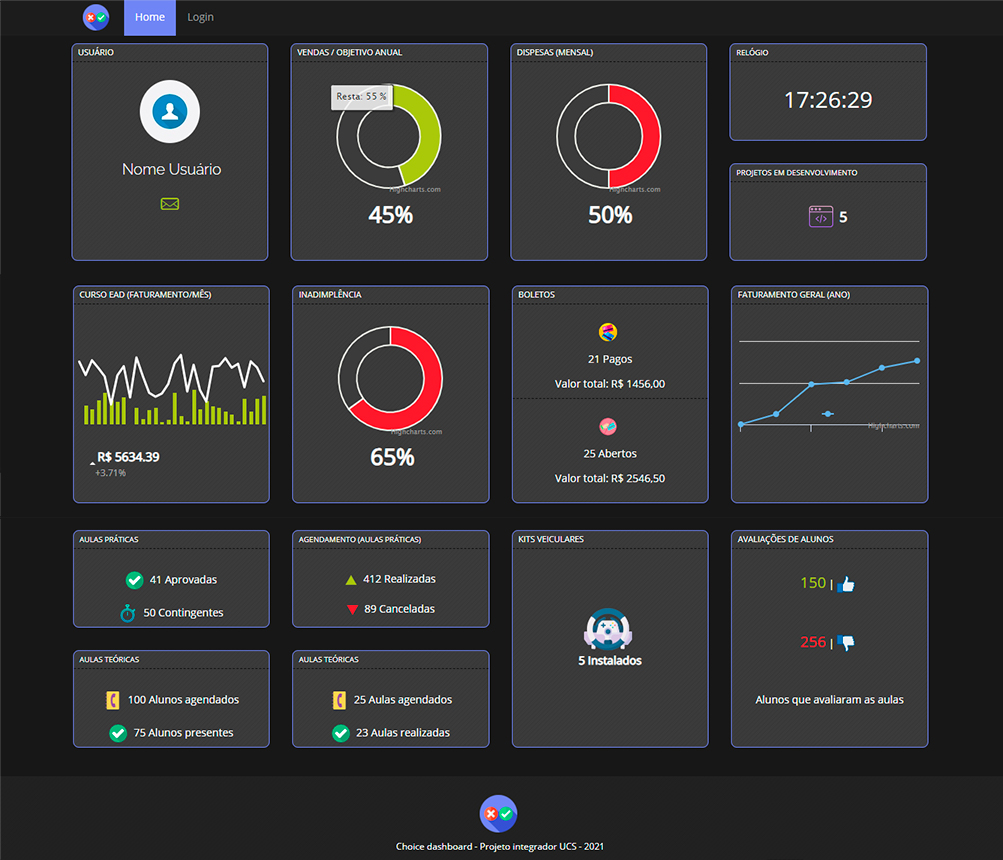
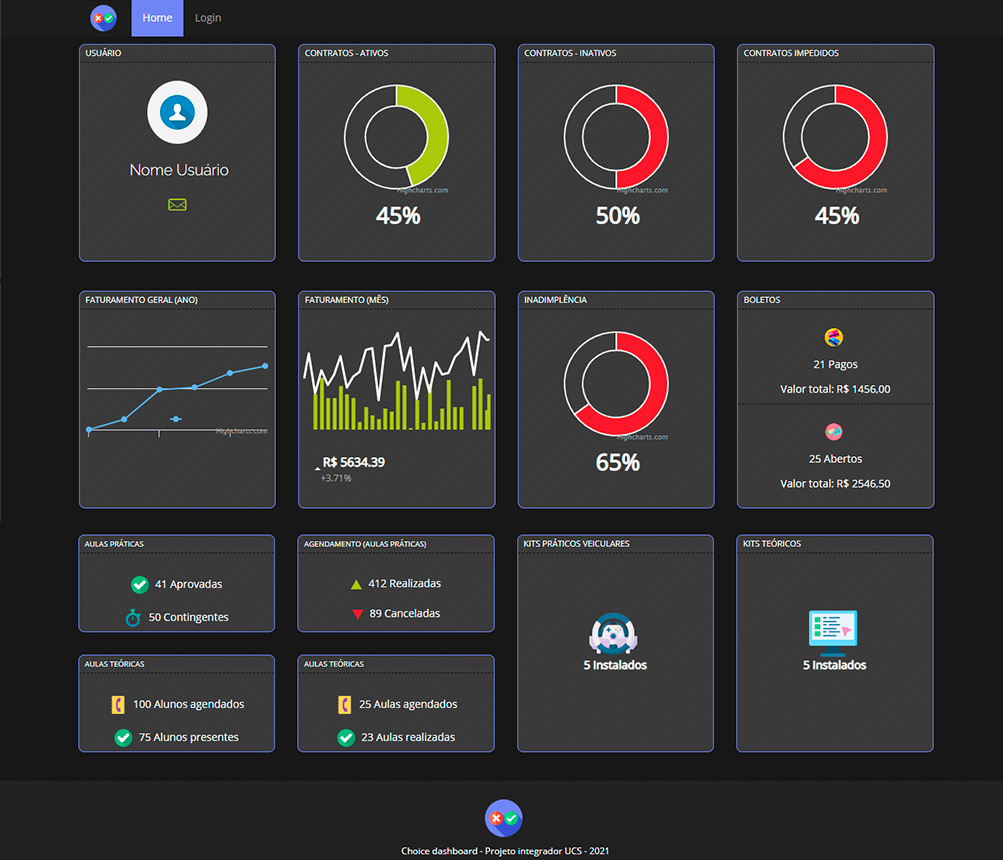
ULTIMA ATUALIZAÇÃO
consertado ordem dos cards e conteudos

diff --git a/index.html b/index.html
@@ -94,19 +94,19 @@
             <!-- CAIXA SITE -->
             <div class="col-sm-3 col-lg-3">
                 <div class="dash-unit">
-                    <dtitle>vendas / objetivo anual</dtitle>
+                    <dtitle>contratos - Ativos</dtitle>
                     <hr>
-                    <div id="load"></div>
+                    <div id="ativos"></div>
                     <h2 id="numero-site">45%</h2>
                 </div>
             </div>
 
-            <!-- CAIXA DISK -->
+            <!-- CAIXA Contratos - cancelados -->
             <div class="col-sm-3 col-lg-3">
                 <div class="dash-unit">
-                    <dtitle>Dispesas (mensal)</dtitle>
+                    <dtitle>Contratos - inativos</dtitle>
                     <hr>
-                    <div id="space"></div>
+                    <div id="inativos"></div>
                     <h2>50%</h2>
                 </div>
             </div>
@@ -114,26 +114,12 @@
             <div class="col-sm-3 col-lg-3">
 
                 <!-- CAIXA RELÓGIO -->
-                <div class="half-unit">
-                    <dtitle>Relógio</dtitle>
+                <div class="dash-unit">
+                    <dtitle>contratos impedidos</dtitle>
                     <hr>
-                    <div class="clockcenter">
-                        <digiclock id="relogio"></digiclock>
-                    </div>
+                    <div id="impedidos"></div>
+                    <h2 id="numero-site">45%</h2>
                 </div>
-
-                <!-- CAIXA SERVER UPTIME -->
-                <div class="half-unit">
-                    <dtitle>Projetos em desenvolvimento</dtitle>
-                    <hr>
-
-                    <div class="cont">
-                        <p><img src="images/develop.png" alt="">
-                            <bold>5</bold>
-                        </p>
-                    </div>
-                </div>
-
             </div>
         </div>
         <!-- FIM CONTAINER ROW 1-->
@@ -141,10 +127,24 @@
 
         <!-- CONTAINER ROW 2 -->
         <div class="row">
+            <!-- CAIXA 30 DAYS - CAROUSEL FLEXSLIDER -->
+            <div class="col-sm-3 col-lg-3">
+
+                <div class="dash-unit">
+                    <dtitle>Faturamento geral (ano)</dtitle>
+                    <hr>
+                    <br>
+                    <div>
+                        <div class="section-graph" id="pontos"></div>
+
+                    </div>
+
+                </div>
+            </div>
             <!-- CAIXA OUTRA INFORMAÇÃO -->
             <div class="col-sm-3 col-lg-3">
                 <div class="dash-unit">
-                    <dtitle>Curso EAD (Faturamento/mês)</dtitle>
+                    <dtitle>Faturamento (mês)</dtitle>
                     <hr>
                     <div class="section-graph">
                         <div id="importantchart"></div>
@@ -164,7 +164,7 @@
                 <div class="dash-unit">
                     <dtitle>Inadimplência</dtitle>
                     <hr>
-                    <div class="i" id="inadinplentes"></div>
+                    <div class="i" id="inadimplentes"></div>
                     <h2>65%</h2>
                 </div>
             </div>
@@ -194,20 +194,7 @@
                 </div>
             </div>
 
-            <!-- CAIXA 30 DAYS - CAROUSEL FLEXSLIDER -->
-            <div class="col-sm-3 col-lg-3">
 
-                <div class="dash-unit">
-                    <dtitle>Faturamento geral (ano)</dtitle>
-                    <hr>
-                    <br>
-                    <div>
-                        <div class="section-graph" id="pontos"></div>
-
-                    </div>
-
-                </div>
-            </div>
         </div>
         <!-- FIM CONTAINER ROW 2 -->
 
@@ -278,7 +265,7 @@
             <div class="col-sm-3 col-lg-3">
                 <!-- CAIXA TOTAL INSCRITOS -->
                 <div class="dash-unit">
-                    <dtitle>Kits veiculares</dtitle>
+                    <dtitle>Kits práticos veiculares</dtitle>
                     <hr>
                     <div class="cont">
                         <br>
@@ -296,24 +283,18 @@
             <!-- CAIXA NEWS -->
             <div class="col-sm-3 col-lg-3">
                 <div class="dash-unit">
-                    <dtitle>Avaliações de alunos</dtitle>
+                    <dtitle>Kits teóricos</dtitle>
                     <hr>
                     <div class="cont">
-                        <p>
-                            <ok>150</ok> |
-                            <ok><img src="images/like.png" alt=""></ok>
+                        <br>
+                        <br>
+                        <p><img src="images/kit-teorico.png" alt="">
+                            <br>
+                            <bold>5</bold>
+                            <bold>Instalados</bold>
                         </p>
-                        <br>
-
-                        <br>
-                        <p>
-                            <bad>256</bad> |
-                            <bad><img src="images/dislike.png" alt=""></bad>
-                        </p>
-                        <br>
-                        <br>
-                        <p>Alunos que avaliaram as aulas</p>
                     </div>
+
                 </div>
             </div>
             <!-- FIM CONTAINER 3 -->

diff --git a/js/dash-charts.js b/js/dash-charts.js
@@ -1,7 +1,7 @@
 $(document).ready(function() {
     info = new Highcharts.Chart({
         chart: {
-            renderTo: 'load',
+            renderTo: 'ativos',
             margin: [0, 0, 0, 0],
             backgroundColor: null,
             plotBackgroundColor: 'none',
@@ -38,13 +38,122 @@
     });
 
 });
+//---------------------------------------------------
+$(document).ready(function() {
+    info = new Highcharts.Chart({
+        chart: {
+            renderTo: 'impedidos',
+            margin: [0, 0, 0, 0],
+            backgroundColor: null,
+            plotBackgroundColor: 'none',
+
+        },
+
+        title: {
+            text: null
+        },
+
+        tooltip: {
+            formatter: function() {
+                return this.point.name + ': ' + this.y + ' %';
+
+            }
+        },
+        series: [{
+            borderWidth: 2,
+            borderColor: '#F1F3EB',
+            shadow: false,
+            type: 'pie',
+            name: 'SiteInfo',
+            innerSize: '65%',
+            data: [
+                { name: 'Porcentagem', y: 65.0, color: '#fa1d2d' },
+                { name: 'Resta', y: 35.0, color: '#3d3d3d' }
+            ],
+            dataLabels: {
+                enabled: false,
+                color: '#000000',
+                connectorColor: '#000000'
+            }
+        }]
+    });
+});
+
+var configd = {
+    type: 'doughnut',
+    data: {
+        datasets: [{
+            data: [
+                50,
+                60,
+                20
+            ],
+            backgroundColor: [
+                '#33b35a',
+                "#ffce56",
+                "#4bc0c0",
+                "#CDDC39",
+                "#9C27B0",
+                "#fb7145",
+                "#5971f9"
+            ],
+            label: 'Energy usage'
+        }],
+        labels: [
+            'E1',
+            'E2',
+            'E3'
+        ]
+    },
+    options: {
+        responsive: true,
+        legend: {
+            display: false
+        },
+        legendCallback: function(chart) {
+            // Return the HTML string here.
+            console.log(chart.data.datasets);
+            var text = [];
+            text.push('<ul class="' + chart.id + '-legend">');
+            for (var i = 0; i < chart.data.datasets[0].data.length; i++) {
+                text.push('<li><span id="legend-' + i + '-item" style="background-color:' + chart.data.datasets[0].backgroundColor[i] + '"   onclick="updateDataset(event, ' + '\'' + i + '\'' + ')">');
+                if (chart.data.labels[i]) {
+                    text.push(chart.data.labels[i]);
+                }
+                text.push('</span></li>');
+            }
+            text.push('</ul>');
+            return text.join("");
+        },
+        title: {
+            display: false,
+            text: 'Chart.js Doughnut Chart'
+        },
+        animation: {
+            animateScale: true,
+            animateRotate: true
+        },
+        tooltips: {
+            mode: 'index',
+            intersect: false,
+            callbacks: {
+                label: function(tooltipItem, data) {
+                    let label = data.datasets[tooltipItem.datasetIndex].label + ' - ' + data.labels[tooltipItem.index];
+                    let datasetLabel = data.datasets[tooltipItem.datasetIndex].data[tooltipItem.index];
+                    return label + ': ' + datasetLabel.toLocaleString();
+                }
+            }
+        },
+    }
+};
+
 
 //=======================================================================
 
 $(document).ready(function() {
     info = new Highcharts.Chart({
         chart: {
-            renderTo: 'space',
+            renderTo: 'inativos',
             margin: [0, 0, 0, 0],
             backgroundColor: null,
             plotBackgroundColor: 'none',
@@ -87,7 +196,7 @@ $(document).ready(function() {
 $(document).ready(function() {
     info = new Highcharts.Chart({
         chart: {
-            renderTo: 'inadinplentes',
+            renderTo: 'inadimplentes',
             margin: [0, 0, 0, 0],
             backgroundColor: null,
             plotBackgroundColor: 'none',

diff --git a/css/main.css b/css/main.css
@@ -480,7 +480,7 @@
     }
     /**********DONUT CHARTS STYLES**********/
     
-    #load {
+    #inativos {
         width: 11.313em;
         height: 11.313em;
         -moz-border-radius: 5px;
@@ -490,7 +490,27 @@
         margin: auto;
     }
     
-    #space {
+    #ativos {
+        width: 11.313em;
+        height: 11.313em;
+        -moz-border-radius: 5px;
+        border-radius: 5px;
+        margin-bottom: 1.063em;
+        background-position: center center;
+        margin: auto;
+    }
+    
+    #impedidos {
+        width: 11.313em;
+        height: 11.313em;
+        -moz-border-radius: 5px;
+        border-radius: 5px;
+        margin-bottom: 1.063em;
+        background-position: center center;
+        margin: auto;
+    }
+    
+    #inadimplencia {
         width: 11.313em;
         height: 11.313em;
         -moz-border-radius: 5px;
